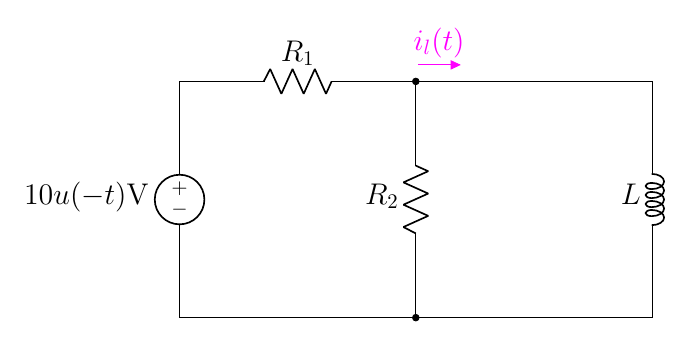
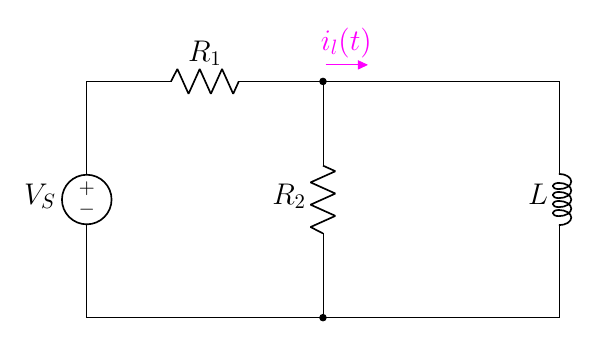
edit 7.63

diff --git a/2.3 Driven RL/7.6 Driven RL/7.63(new).tex b/2.3 Driven RL/7.6 Driven RL/7.63(new).tex
@@ -6,7 +6,8 @@
 
     %%% vertical %%%
     \draw(0,0)  
-        to[V,l=$10u(-t) \mathrm{V}$] ++(0,4);
+        % to[V,l=$10u(-t) \mathrm{V}$] ++(0,4);
+        to[V,l=\vsname{}] ++(0,4);
 
     \draw(4,0)  
         to[R,l=\rname{2}] ++(0,4);
